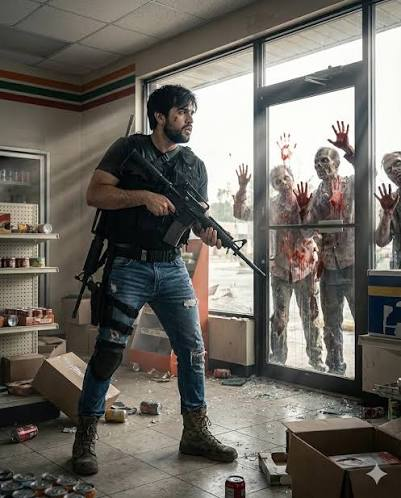
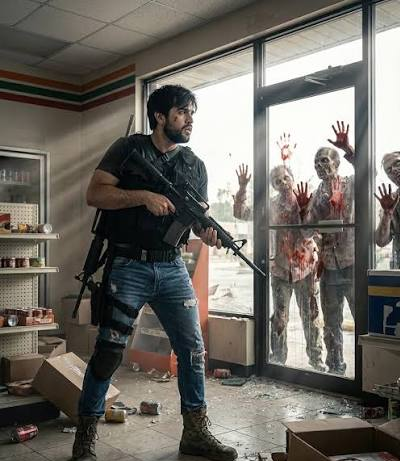
Checkpoint: latest working version

diff --git a/src/data/questions.js b/src/data/questions.js
@@ -8,8 +8,6 @@ import imgBase from '../assets/image.png'
 import imgCopy from '../assets/image copy.png'
 import img6 from '../assets/image copy 6.png'
 import img7 from '../assets/image copy 7.png'
-import img2 from '../assets/image copy 2.png'
-import img3 from '../assets/image copy 3.png'
 import img106 from '../assets/image copy 106.png'
 import img107 from '../assets/image copy 107.png'
 import img83 from '../assets/image copy 83.png'
@@ -32,28 +30,18 @@ import img22 from '../assets/image copy 22.png'
 import img23 from '../assets/image copy 23.png'
 import img25 from '../assets/image copy 25.png'
 import img24 from '../assets/image copy 24.png'
-import img84 from '../assets/image copy 84.png'
-import img85 from '../assets/image copy 85.png'
 import img75 from '../assets/image copy 75.png'
 import img74 from '../assets/image copy 74.png'
-import img55 from '../assets/image copy 55.png'
-import img54 from '../assets/image copy 54.png'
-import img65 from '../assets/image copy 65.png'
-import img66 from '../assets/image copy 66.png'
 import img26 from '../assets/image copy 26.png'
 import img27 from '../assets/image copy 27.png'
 import img29 from '../assets/image copy 29.png'
 import img28 from '../assets/image copy 28.png'
 import img30 from '../assets/image copy 30.png'
 import img31 from '../assets/image copy 31.png'
-import img79 from '../assets/image copy 79.png'
-import img78 from '../assets/image copy 78.png'
 import img76 from '../assets/image copy 76.png'
 import img77 from '../assets/image copy 77.png'
 import img32 from '../assets/image copy 32.png'
 import img33 from '../assets/image copy 33.png'
-import img64 from '../assets/image copy 64.png'
-import img69 from '../assets/image copy 69.png'
 import img34 from '../assets/image copy 34.png'
 import img35 from '../assets/image copy 35.png'
 import img36 from '../assets/image copy 36.png'
@@ -70,8 +58,6 @@ import img44 from '../assets/image copy 44.png'
 import img45 from '../assets/image copy 45.png'
 import img67 from '../assets/image copy 67.png'
 import img68 from '../assets/image copy 68.png'
-import img71 from '../assets/image copy 71.png'
-import img70 from '../assets/image copy 70.png'
 import img48 from '../assets/image copy 48.png'
 import img49 from '../assets/image copy 49.png'
 import img50 from '../assets/image copy 50.png'
@@ -104,8 +90,6 @@ import img110 from '../assets/image copy 110.png'
 import img111 from '../assets/image copy 111.png'
 import img114 from '../assets/image copy 114.png'
 import img115 from '../assets/image copy 115.png'
-import img124 from '../assets/image copy 124.png'
-import img125 from '../assets/image copy 125.png'
 import img112 from '../assets/image copy 112.png'
 import img113 from '../assets/image copy 113.png'
 import img128 from '../assets/image copy 128.png'
@@ -126,8 +110,6 @@ import img148 from '../assets/image copy 148.png'
 import img149 from '../assets/image copy 149.png'
 import img150 from '../assets/image copy 150.png'
 import img151 from '../assets/image copy 151.png'
-import img154 from '../assets/image copy 154.png'
-import img155 from '../assets/image copy 155.png'
 import img156 from '../assets/image copy 156.png'
 import img157 from '../assets/image copy 157.png'
 import img158 from '../assets/image copy 158.png'
@@ -137,8 +119,6 @@ import img166 from '../assets/image copy 166.png'
 import img165 from '../assets/image copy 165.png'
 import img160 from '../assets/image copy 160.png'
 import img161 from '../assets/image copy 161.png'
-import img162 from '../assets/image copy 162.png'
-import img163 from '../assets/image copy 163.png'
 import img164 from '../assets/image copy 164.png'
 import img168 from '../assets/image copy 168.png'
 import img169 from '../assets/image copy 169.png'
@@ -150,8 +130,6 @@ import img174 from '../assets/image copy 174.png'
 import img175 from '../assets/image copy 175.png'
 import img176 from '../assets/image copy 176.png'
 import img177 from '../assets/image copy 177.png'
-import img180 from '../assets/image copy 180.png'
-import img181 from '../assets/image copy 181.png'
 import img182 from '../assets/image copy 182.png'
 import img183 from '../assets/image copy 183.png'
 import img186 from '../assets/image copy 186.png'
@@ -206,7 +184,6 @@ export const questions = [
   { id: 3, optionA: "Be a Musician", optionAImage: img4, optionB: "Be a Singer", optionBImage: img5 },
   { id: 4, optionA: "Sky Diving", optionAImage: imgBase, optionB: "Roller Coaster", optionBImage: imgCopy },
   { id: 5, optionA: "Invisibility", optionAImage: img6, optionB: "Teleportation", optionBImage: img7 },
-  { id: 6, optionA: "Dodge", optionAImage: img2, optionB: "Porsche", optionBImage: img3 },
   { id: 7, optionA: "Pull a lever to save 10 people but kill 1", optionAImage: img106, optionB: "Do nothing and let 10 people die", optionBImage: img107 },
   { id: 9, optionA: "Lamborghini V12 Vision Gran Turismo", optionAImage: img83, optionB: "Mercedes-Benz Concept Car", optionBImage: img82 },
   { id: 11, optionA: "Water/Aqua park", optionAImage: img12, optionB: "Theme park", optionBImage: img13 },
@@ -218,17 +195,12 @@ export const questions = [
   { id: 17, optionA: "Megan Fox is Unforgettable?", optionAImage: img56, optionB: "Adriana Lima is Unforgettable?", optionBImage: img57 },
   { id: 18, optionA: "Be the happiest person alive with a simple life", optionAImage: img22, optionB: "Be the richest person but constantly stressed", optionBImage: img23 },
   { id: 19, optionA: "Always know when someone is lying to you", optionAImage: img25, optionB: "Be able to lie perfectly without ever being caught", optionBImage: img24 },
-  { id: 20, optionA: "Timothee Chalamet is your favourite", optionAImage: img84, optionB: "Andrew Garfield is your favourite", optionBImage: img85 },
-  { id: 21, optionA: "Iron Man Suit", optionAImage: img75, optionB: "Ability like Superman", optionBImage: img74 },
-  { id: 22, optionA: "Scarlett Johansson steals the Spotlight?", optionAImage: img55, optionB: "Jennifer Lawrence steals the Spotlight?", optionBImage: img54 },
-  { id: 23, optionA: "Bugatti", optionAImage: img65, optionB: "Rolls Royce", optionBImage: img66 },
+  { id: 21, optionA: "Have an Iron Man Suit", optionAImage: img75, optionB: "Have an Ability like Superman", optionBImage: img74 },
   { id: 24, optionA: "Have Free Food for life", optionAImage: img26, optionB: "Have Free Travel for life", optionBImage: img27 },
-  { id: 25, optionA: "Give up brushing your teeth for 3 weeks", optionAImage: img29, optionB: "Give up showering for a week", optionBImage: img28 },
+  { id: 25, optionA: "Give up brushing your teeth for a month", optionAImage: img29, optionB: "Give up showering for a week", optionBImage: img28 },
   { id: 26, optionA: "Have Oily Hair all day", optionAImage: img30, optionB: "Have Bad Breath all day", optionBImage: img31 },
-  { id: 27, optionA: "Chris Hemsworth is your Celebrity Crush?", optionAImage: img79, optionB: "Chris Evans is your Celebrity Crush?", optionBImage: img78 },
   { id: 28, optionA: "Attend a Funniest Stand-up Comedy show", optionAImage: img76, optionB: "Attend an Energetic Concert", optionBImage: img77 },
   { id: 29, optionA: "Laugh in slow motion", optionAImage: img32, optionB: "Cry in fast forward", optionBImage: img33 },
-  { id: 30, optionA: "Ferrari looks more Stylish", optionAImage: img64, optionB: "Audi looks more Stylish", optionBImage: img69 },
   { id: 31, optionA: "Take a hot shower in sweaty conditions", optionAImage: img34, optionB: "Take a cold shower in winter", optionBImage: img35 },
   { id: 32, optionA: "Use Netflix for the rest of your life", optionAImage: img36, optionB: "Use YouTube for the rest of your life", optionBImage: img37 },
   { id: 33, optionA: "Freeze time", optionAImage: img38, optionB: "Fast-forward time", optionBImage: img39 },
@@ -237,7 +209,6 @@ export const questions = [
   { id: 36, optionA: "Morning workout", optionAImage: img42, optionB: "Evening workout", optionBImage: img43 },
   { id: 37, optionA: "Be the Smartest person in the room", optionAImage: img44, optionB: "Be the Funniest person in the room", optionBImage: img45 },
   { id: 38, optionA: "Mercedes has more Aura", optionAImage: img67, optionB: "BMW has more Aura", optionBImage: img68 },
-  { id: 40, optionA: "Sunny Leone is more Prettier?", optionAImage: img71, optionB: "Kate Upton is more Prettier?", optionBImage: img70 },
   { id: 41, optionA: "Breakfast hits different", optionAImage: img48, optionB: "Dinner hits different", optionBImage: img49 },
   { id: 42, optionA: "Fight 6 Zombies", optionAImage: img50, optionB: "Fight 1 Vampire", optionBImage: img51 },
   { id: 43, optionA: "Sydney Sweeney is your Type?", optionAImage: img52, optionB: "Madison Beer is your Type?", optionBImage: img53 },
@@ -254,7 +225,6 @@ export const questions = [
   { id: 54, optionA: "Remember every song lyric perfectly", optionAImage: img108, optionB: "Perform every dance move flawlessly", optionBImage: img109 },
   { id: 55, optionA: "Fight a Polar Bear on land", optionAImage: img110, optionB: "Fight a Great White Shark in the ocean", optionBImage: img111 },
   { id: 56, optionA: "Have 1 pet Lion", optionAImage: img114, optionB: "Have 3 pet Wolves", optionBImage: img115 },
-  { id: 57, optionA: "Disha Patani is more Good Looking", optionAImage: img124, optionB: "Tamannaah Bhatia is more Good Looking", optionBImage: img125 },
   { id: 58, optionA: "Have a peaceful nature view", optionAImage: img112, optionB: "Have a modern city skyline view", optionBImage: img113 },
   { id: 59, optionA: "Have a pet Sea Serpent", optionAImage: img463, optionB: "Have a pet Dragon", optionBImage: img464 },
   { id: 60, optionA: "Have the Omnitrix like Ben 10", optionAImage: img128, optionB: "Have your own Pokemon Team", optionBImage: img129 },
@@ -266,11 +236,9 @@ export const questions = [
   { id: 67, optionA: "Travel to every other country on Earth", optionAImage: img142, optionB: "Experience Space once", optionBImage: img143 },
   { id: 69, optionA: "Work 14 hours a day for your own Business", optionAImage: img148, optionB: "Work 3 hours a day for someone Else with decent pay", optionBImage: img149 },
   { id: 70, optionA: "Earn $900/month doing something you Enjoy", optionAImage: img150, optionB: "Earn $1,900/month doing something you Don't Enjoy", optionBImage: img151 },
-  { id: 71, optionA: "Angelina Jolie catches your eye more?", optionAImage: img154, optionB: "Kate Winslet catches your eye more?", optionBImage: img155 },
   { id: 72, optionA: "Tobey Maguire as Spider-Man", optionAImage: img156, optionB: "Tom Holland as Spider-Man", optionBImage: img157 },
   { id: 73, optionA: "Score a long-range Football goal", optionAImage: img158, optionB: "Shoot a long-distance Basketball shot", optionBImage: img159 },
   { id: 74, optionA: "Rock is your Favourite", optionAImage: img160, optionB: "Brock Lesner is your Favourite", optionBImage: img161 },
-  { id: 75, optionA: "Michael B. Jordan", optionAImage: img162, optionB: "Will Smith", optionBImage: img163, category: "actor" },
   { id: 76, optionA: "Stephen Curry", optionAImage: img164, optionB: "Lebron James", optionBImage: img165 },
   { id: 77, optionA: "Ronaldo is G.O.A.T", optionAImage: img167, optionB: "Messi is G.O.A.T", optionBImage: img166 },
   { id: 78, optionA: "Randy Orton has better style", optionAImage: img168, optionB: "John Cena has better style", optionBImage: img169 },
@@ -278,7 +246,6 @@ export const questions = [
   { id: 84, optionA: "Primarina(Pokemon) looks more elegant", optionAImage: img172, optionB: "Ninetales(Pokemon) looks more elegant", optionBImage: img173 },
   { id: 85, optionA: "Blake Lively looks more ethereal in this outfit?", optionAImage: img174, optionB: "Emma Chamberlain looks more ethereal in this outfit?", optionBImage: img175 },
   { id: 86, optionA: "Anok Yai looks more Classy?", optionAImage: img176, optionB: "Tyla looks more Classy?", optionBImage: img177 },
-  { id: 88, optionA: "Tripti Dimri is more Cutie?", optionAImage: img180, optionB: "Shraddha Kapoor is more Cutie? ", optionBImage: img181, category: "actress" },
   { id: 89, optionA: "Never get help from any AI again", optionAImage: img182, optionB: "Never ask for help from another human again", optionBImage: img183 },
   { id: 90, optionA: "Enjoy playing games on Phone/Tablet?", optionAImage: img186, optionB: "Enjoy playing games on PC?", optionBImage: img187 },
   { id: 91, optionA: "Would you survive Real Combat with 3 lives?", optionAImage: img188, optionB: "Would you survive a Zombie outbreak with 3 lives?", optionBImage: img189 },

diff --git a/src/pages/PrivacyPage.jsx b/src/pages/PrivacyPage.jsx
@@ -4,7 +4,7 @@ export default function PrivacyPage({ onHome }) {
   return (
     <PageLayout title="Privacy Policy" badge="Legal" onHome={onHome}>
       <p className="text-xs text-slate-400 font-medium -mt-2 mb-2">
-        Last updated: October 26, 2026
+        Last updated: November 3, 2026
       </p>
 
       <section className="space-y-3">
@@ -17,19 +17,10 @@ export default function PrivacyPage({ onHome }) {
       <section className="space-y-3">
         <h2 className="font-baloo text-xl font-bold text-white">Votes and anonymous data</h2>
         <p>
-          When you pick an option, the game records an anonymous vote count for that matchup, so it can show the percentage of players who chose each side and how many have voted.
-        </p>
-        <p>
-          Votes are stored as totals only. They are not linked to your name, email or any account.
-        </p>
-        <p>
-          To prevent repeated voting on the same question, a random ID is saved in your browser's local storage. It contains no personal information and is not shared with advertisers.
+          When you pick an option, the game adds one to an anonymous vote counter for that matchup, so it can show the percentage of players who chose each side and the total number of votes. We do not store your name, email or account details with your votes, and we do not identify who cast them.
         </p>
         <p>
           Vote counts are stored with a third-party database provider, Supabase.
-        </p>
-        <p>
-          You can clear your browser's local storage at any time, which removes this ID.
         </p>
       </section>
 

diff --git a/src/data/actorQuestions.js b/src/data/actorQuestions.js
@@ -49,10 +49,10 @@ import img285 from "../assets/image copy 285.png"
 import img286 from "../assets/image copy 286.png"
 
 export const actorQuestions = [
-  { id: 1, name: "Nick Jonas", image: img210 },
   { id: 2, name: "Jake Gyllenhaal", image: img217 },
   { id: 3, name: "Gong Yoo", image: img240 },
   { id: 4, name: "Keanu Reeves", image: img241 },
+  { id: 1, name: "Nick Jonas", image: img210 },
   { id: 5, name: "Tom Holland", image: img242 },
   { id: 6, name: "Ranbir Kapoor", image: img243 },
   { id: 7, name: "Vicky Kaushal", image: img244 },
